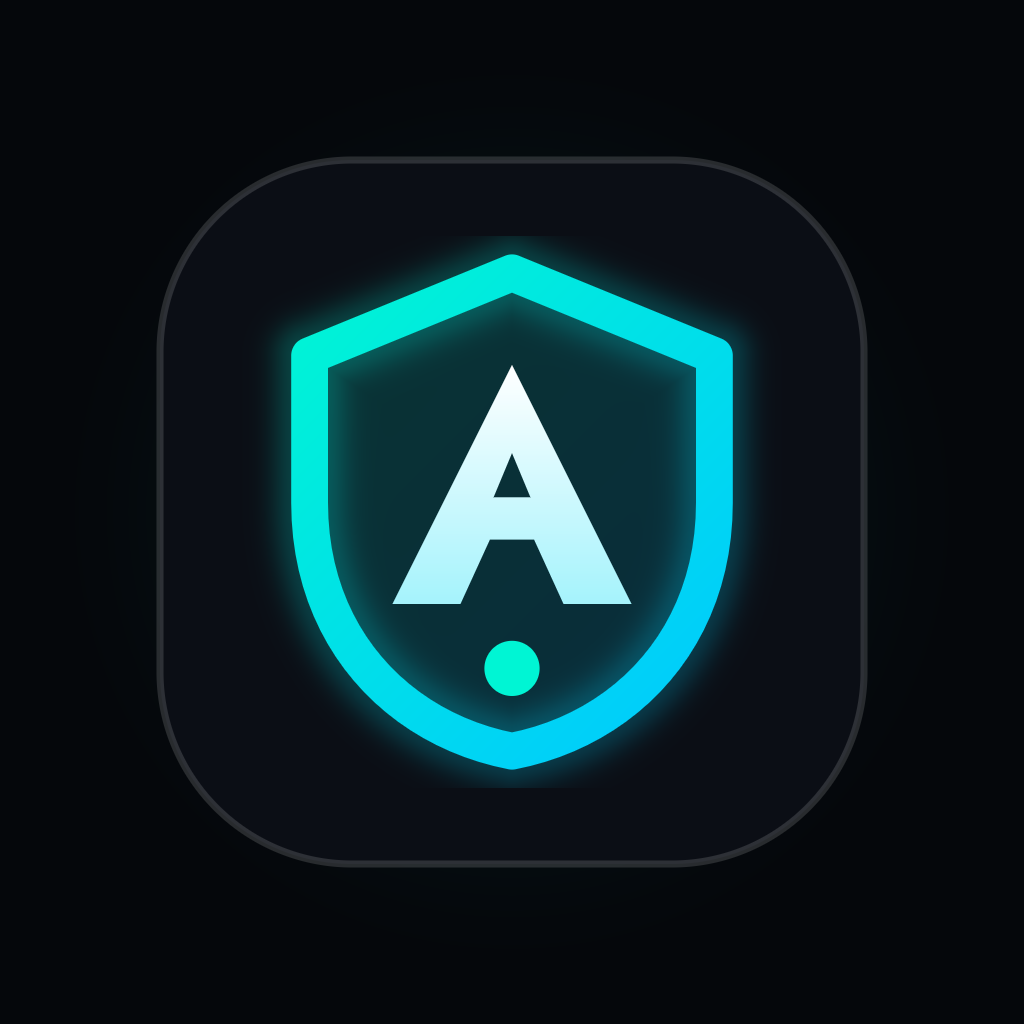
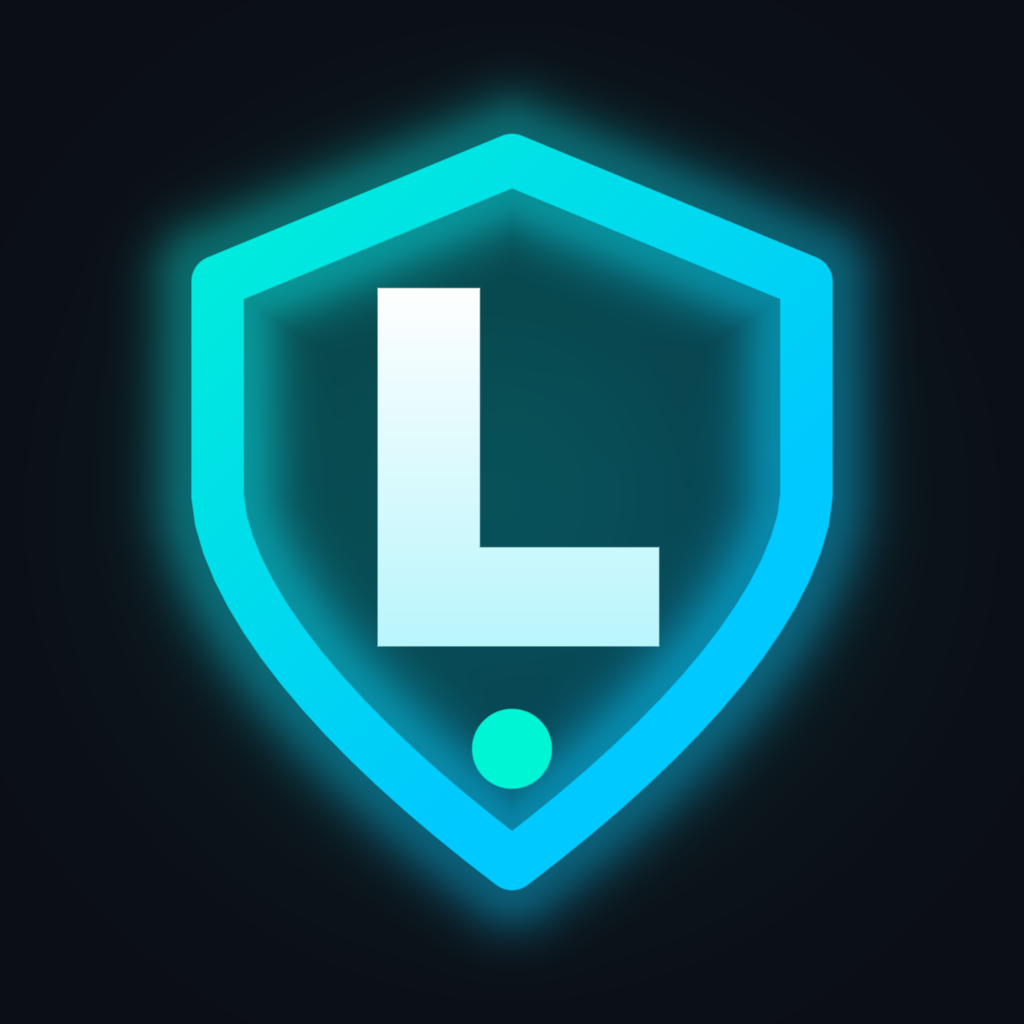
feat(brand): rebrand project display identity to LastKey Bunker with L-shield emblem

diff --git a/web/index.html b/web/index.html
@@ -3,7 +3,7 @@
 <head>
   <meta charset="UTF-8">
   <meta name="viewport" content="width=device-width, initial-scale=1.0">
-  <title>Aegis — Self-Custodial Crypto Bunker &amp; Automatic Inheritance · NEAR MPC</title>
+  <title>LastKey Bunker — Self-Custodial Crypto Bunker &amp; Automatic Inheritance · NEAR MPC</title>
   <link rel="icon" type="image/svg+xml" href="./favicon.svg">
   <link rel="shortcut icon" href="./favicon.svg">
   
@@ -173,10 +173,10 @@
   <header class="border-b border-nearBorder bg-black/85 backdrop-blur-xl sticky top-0 z-40">
     <div class="max-w-7xl mx-auto px-4 sm:px-8 min-h-[72px] py-2.5 flex items-center justify-between gap-3">
       
-      <!-- Brand & Aegis Identity -->
+      <!-- Brand & LastKey Bunker Identity -->
       <div class="flex items-center gap-4">
-        <!-- Custom Aegis Cyber Shield Emblem -->
-        <a href="#" onclick="window.location.reload(); return false;" title="Aegis Dead-Man's Switch" class="w-11 h-11 rounded-2xl bg-[#0B0E15] border border-white/[0.08] hover:border-[#00F5D4]/40 flex items-center justify-center transition group shadow-near-pill">
+        <!-- Custom LastKey Cyber Shield Emblem -->
+        <a href="#" onclick="window.location.reload(); return false;" title="LastKey Bunker" class="w-11 h-11 rounded-2xl bg-[#0B0E15] border border-white/[0.08] hover:border-[#00F5D4]/40 flex items-center justify-center transition group shadow-near-pill">
           <svg width="26" height="26" viewBox="0 0 32 32" fill="none" xmlns="http://www.w3.org/2000/svg" class="transform group-hover:scale-105 transition">
             <defs>
               <linearGradient id="aegisLogoGrad" x1="2" y1="2" x2="30" y2="30" gradientUnits="userSpaceOnUse">
@@ -188,10 +188,10 @@
                 <stop offset="100%" stop-color="#A5F3FC"/>
               </linearGradient>
             </defs>
-            <!-- Outer Aegis Cyber Shield -->
+            <!-- Outer LastKey Cyber Shield -->
             <path d="M16 3L27 7.5V15.5C27 22.8 22.3 27.8 16 29C9.7 27.8 5 22.8 5 15.5V7.5L16 3Z" fill="url(#aegisLogoGrad)" fill-opacity="0.15" stroke="url(#aegisLogoGrad)" stroke-width="2" stroke-linejoin="round"/>
-            <!-- Central Geometric 'A' / Quantum Vault Core -->
-            <path d="M16 8L22.5 21H18.8L17.2 17.5H14.8L13.2 21H9.5L16 8ZM16 12.8L15.2 15H16.8L16 12.8Z" fill="url(#aegisCoreGrad)"/>
+            <!-- Central Geometric 'L' / LastKey Bunker Core -->
+            <path d="M11.5 8.5H15.2V17.4H21.2V20.8H11.5V8.5Z" fill="url(#aegisCoreGrad)"/>
             <!-- Quantum Key Node -->
             <circle cx="16" cy="24.5" r="1.5" fill="#00F5D4"/>
           </svg>
@@ -199,7 +199,7 @@
 
         <div>
           <div class="flex items-center gap-2.5 flex-wrap">
-            <span class="font-extrabold text-xl sm:text-2xl tracking-tighter text-white">AEGIS</span>
+            <span class="font-extrabold text-xl sm:text-2xl tracking-tight text-white">LASTKEY <span class="text-nearGreen">BUNKER</span></span>
             <span class="text-[11px] font-sans font-bold px-2.5 py-0.5 rounded-lg bg-[#00F5D4]/10 text-[#00F5D4] border border-[#00F5D4]/30 hidden sm:inline-flex items-center gap-1.5">
               <span class="w-1.5 h-1.5 rounded-full bg-[#00F5D4] radar-pulse"></span>
               Secured by NEAR MPC
@@ -940,7 +940,7 @@
               <span>1 Telegram → Many Bunkers</span>
             </div>
             <p class="text-[11px] text-[#8C929D] leading-snug">
-              Link a single Telegram account to unlimited Aegis Bunker wallets. Each Bunker pairs independently via an anonymous tag.
+              Link a single Telegram account to unlimited LastKey Bunker wallets. Each Bunker pairs independently via an anonymous tag.
             </p>
           </div>
           <div class="p-3 rounded-xl bg-white/[0.02] border border-white/[0.06] space-y-1">
@@ -1280,7 +1280,7 @@
   <footer class="border-t border-nearBorder py-8 px-8 bg-black text-center text-xs text-textGray">
     <div class="max-w-7xl mx-auto flex flex-col sm:flex-row items-center justify-between gap-4">
       <div class="flex items-center gap-2">
-        <span class="text-nearGreen font-extrabold text-sm tracking-tighter">AEGIS</span>
+        <span class="text-nearGreen font-extrabold text-sm tracking-tight">LASTKEY BUNKER</span>
         <span class="text-textMuted">·</span>
         <span>Self-Custodial Crypto Bunker &amp; Automatic Inheritance</span>
       </div>

diff --git a/AEGIS_AUDIT_BUNDLE.md b/AEGIS_AUDIT_BUNDLE.md
@@ -6974,7 +6974,7 @@ if (typeof window !== "undefined") {
 <head>
   <meta charset="UTF-8">
   <meta name="viewport" content="width=device-width, initial-scale=1.0">
-  <title>Aegis — Self-Custodial Crypto Bunker &amp; Automatic Inheritance · NEAR MPC</title>
+  <title>LastKey Bunker — Self-Custodial Crypto Bunker &amp; Automatic Inheritance · NEAR MPC</title>
   <link rel="icon" type="image/svg+xml" href="./favicon.svg">
   <link rel="shortcut icon" href="./favicon.svg">
   
@@ -7144,10 +7144,10 @@ if (typeof window !== "undefined") {
   <header class="border-b border-nearBorder bg-black/85 backdrop-blur-xl sticky top-0 z-40">
     <div class="max-w-7xl mx-auto px-4 sm:px-8 min-h-[72px] py-2.5 flex items-center justify-between gap-3">
       
-      <!-- Brand & Aegis Identity -->
+      <!-- Brand & LastKey Bunker Identity -->
       <div class="flex items-center gap-4">
-        <!-- Custom Aegis Cyber Shield Emblem -->
-        <a href="#" onclick="window.location.reload(); return false;" title="Aegis Dead-Man's Switch" class="w-11 h-11 rounded-2xl bg-[#0B0E15] border border-white/[0.08] hover:border-[#00F5D4]/40 flex items-center justify-center transition group shadow-near-pill">
+        <!-- Custom LastKey Cyber Shield Emblem -->
+        <a href="#" onclick="window.location.reload(); return false;" title="LastKey Bunker" class="w-11 h-11 rounded-2xl bg-[#0B0E15] border border-white/[0.08] hover:border-[#00F5D4]/40 flex items-center justify-center transition group shadow-near-pill">
           <svg width="26" height="26" viewBox="0 0 32 32" fill="none" xmlns="http://www.w3.org/2000/svg" class="transform group-hover:scale-105 transition">
             <defs>
               <linearGradient id="aegisLogoGrad" x1="2" y1="2" x2="30" y2="30" gradientUnits="userSpaceOnUse">
@@ -7159,10 +7159,10 @@ if (typeof window !== "undefined") {
                 <stop offset="100%" stop-color="#A5F3FC"/>
               </linearGradient>
             </defs>
-            <!-- Outer Aegis Cyber Shield -->
+            <!-- Outer LastKey Cyber Shield -->
             <path d="M16 3L27 7.5V15.5C27 22.8 22.3 27.8 16 29C9.7 27.8 5 22.8 5 15.5V7.5L16 3Z" fill="url(#aegisLogoGrad)" fill-opacity="0.15" stroke="url(#aegisLogoGrad)" stroke-width="2" stroke-linejoin="round"/>
-            <!-- Central Geometric 'A' / Quantum Vault Core -->
-            <path d="M16 8L22.5 21H18.8L17.2 17.5H14.8L13.2 21H9.5L16 8ZM16 12.8L15.2 15H16.8L16 12.8Z" fill="url(#aegisCoreGrad)"/>
+            <!-- Central Geometric 'L' / LastKey Bunker Core -->
+            <path d="M11.5 8.5H15.2V17.4H21.2V20.8H11.5V8.5Z" fill="url(#aegisCoreGrad)"/>
             <!-- Quantum Key Node -->
             <circle cx="16" cy="24.5" r="1.5" fill="#00F5D4"/>
           </svg>
@@ -7170,7 +7170,7 @@ if (typeof window !== "undefined") {
 
         <div>
           <div class="flex items-center gap-2.5 flex-wrap">
-            <span class="font-extrabold text-xl sm:text-2xl tracking-tighter text-white">AEGIS</span>
+            <span class="font-extrabold text-xl sm:text-2xl tracking-tight text-white">LASTKEY <span class="text-nearGreen">BUNKER</span></span>
             <span class="text-[11px] font-sans font-bold px-2.5 py-0.5 rounded-lg bg-[#00F5D4]/10 text-[#00F5D4] border border-[#00F5D4]/30 hidden sm:inline-flex items-center gap-1.5">
               <span class="w-1.5 h-1.5 rounded-full bg-[#00F5D4] radar-pulse"></span>
               Secured by NEAR MPC
@@ -7911,7 +7911,7 @@ if (typeof window !== "undefined") {
               <span>1 Telegram → Many Bunkers</span>
             </div>
             <p class="text-[11px] text-[#8C929D] leading-snug">
-              Link a single Telegram account to unlimited Aegis Bunker wallets. Each Bunker pairs independently via an anonymous tag.
+              Link a single Telegram account to unlimited LastKey Bunker wallets. Each Bunker pairs independently via an anonymous tag.
             </p>
           </div>
           <div class="p-3 rounded-xl bg-white/[0.02] border border-white/[0.06] space-y-1">
@@ -8251,7 +8251,7 @@ if (typeof window !== "undefined") {
   <footer class="border-t border-nearBorder py-8 px-8 bg-black text-center text-xs text-textGray">
     <div class="max-w-7xl mx-auto flex flex-col sm:flex-row items-center justify-between gap-4">
       <div class="flex items-center gap-2">
-        <span class="text-nearGreen font-extrabold text-sm tracking-tighter">AEGIS</span>
+        <span class="text-nearGreen font-extrabold text-sm tracking-tight">LASTKEY BUNKER</span>
         <span class="text-textMuted">·</span>
         <span>Self-Custodial Crypto Bunker &amp; Automatic Inheritance</span>
       </div>

diff --git a/README.md b/README.md
@@ -1,11 +1,11 @@
-# 🛡 Aegis Vault — Autonomous Multichain Dead-Man's Switch & Panic Evacuation Bunker
+# 🛡 LastKey Bunker — Zero-Signature Crypto Bunker & Automatic Inheritance on NEAR MPC
 
 > **NEAR HACKATHON 2026 Submission (`Nov 1–14, 2026`)**  
 > **Official Track IDs:** `open` (Open Innovation) · `security` (AI Security & Defense) · `defi` (Unstoppable DeFi)  
 > **Core Primitive:** Native NEAR Chain Signatures (`v1.signer-prod.testnet` MPC Network) & Pure Rust Smart Contract  
 > **Live App:** [https://mastrophot.github.io/aegis-vault/](https://mastrophot.github.io/aegis-vault/)  
 > **24/7 Autonomous Cloud Keeper:** [`.github/workflows/relayer-keeper.yml`](https://github.com/mastrophot/aegis-vault/actions/workflows/relayer-keeper.yml)  
-> **NEAR Testnet Contract:** [`aegis.okgoogleok.testnet`](https://testnet.nearblocks.io/address/aegis.okgoogleok.testnet)  
+> **NEAR Testnet Contract (`Aegis Engine`):** [`aegis.okgoogleok.testnet`](https://testnet.nearblocks.io/address/aegis.okgoogleok.testnet)  
 > **Least-Privilege Keeper Account:** [`keeper.aegis.okgoogleok.testnet`](https://testnet.nearblocks.io/address/keeper.aegis.okgoogleok.testnet)  
 > **Zero-Metadata Telegram Alerts Bot:** [`@aegis_vault_bot`](https://t.me/aegis_vault_bot)
 
@@ -13,15 +13,15 @@
 
 ## 🎯 The Problem
 
-1. **Billions in Stranded Crypto Assets**: When an asset holder unexpectedly passes away or becomes incapacitated, family members rarely know how to recover seed phrases, hardware wallets, and cross-chain accounts across disparate ecosystems.
-2. **Physical Coercion & Duress ("\$5 Wrench Attack")**: Under physical extortion or device seizure, victims need an immediate, irreversible mechanism to evacuate assets to cold multi-sig/backup storage and burn hot derivation epochs.
+1. **Billions in Stranded Crypto Assets**: When an asset holder unexpectedly passes away or becomes incapacitated, beneficiaries rarely know how to recover seed phrases, hardware wallets, and cross-chain accounts across disparate ecosystems.
+2. **Physical Coercion, Key Exposure & Duress ("\$5 Wrench Attack")**: Every time a regular wallet signs an outgoing transaction, it permanently exposes its cryptographic public key on-chain. Under physical extortion or key compromise, holders need a zero-signature Bunker with an immediate, irreversible mechanism to evacuate 100% of assets to backup storage and retire exposed derivation epochs.
 3. **Cross-Ecosystem Fragmentation & Blind-Signing Risks**: Traditional inheritance contracts work only inside a single EVM chain, expose plaintext notes on-chain, or rely on centralized custodial bots with unrestricted signing keys.
 
 ---
 
-## 💡 The Solution: Aegis Vault
+## 💡 The Solution: LastKey Bunker
 
-**Aegis Vault** is a 100% non-custodial multichain dead-man's switch and emergency evacuation bunker powered by **NEAR Protocol Chain Signatures (`v1.signer-prod.testnet`)**. A single Rust smart contract governs threshold ECDSA (`Secp256k1`) and EdDSA (`Ed25519`) sweeps across **Bitcoin (Native SegWit)**, **EVM (Ethereum / Base / Arbitrum)**, **Solana (Native + SPL / Token-2022)**, and **NEAR**.
+**LastKey Bunker** (powered by the on-chain **Aegis MPC Engine** at `aegis.okgoogleok.testnet`) is a 100% non-custodial multichain zero-signature crypto bunker, emergency panic switch, and automatic inheritance protocol built on **NEAR Protocol Chain Signatures (`v1.signer-prod.testnet`)**. A single Rust smart contract governs threshold ECDSA (`Secp256k1`) and EdDSA (`Ed25519`) sweeps across **Bitcoin (Native SegWit)**, **EVM (Ethereum / Base / Arbitrum)**, **Solana (Native + SPL / Token-2022)**, and **NEAR**.
 
 ### Key Capabilities & Hardened Architecture
 
